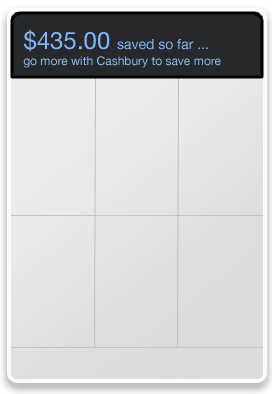
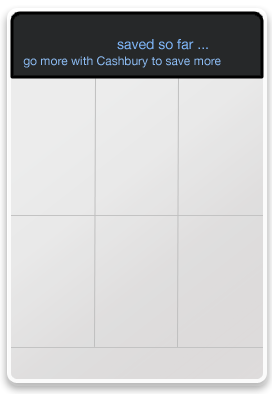
Added the total savings balance viewable on the control panel.

Changed region(s): [[0.0882, 0.0609, 0.4118, 0.1523]]

diff --git a/Classes/Controllers/KZCardsAtPlacesViewController.m b/Classes/Controllers/KZCardsAtPlacesViewController.m
@@ -15,10 +15,15 @@
 #import "KZEngagementHandler.h"
 #import "KZUserInfo.h"
 #import "FileSaver.h"
+#import "CBSavings.h"
+
+@interface KZCardsAtPlacesViewController (PrivateMethods)
+- (void) setBalanceLabelValue:(NSNumber *)theBalance;
+@end
 
 @implementation KZCardsAtPlacesViewController
 
-@synthesize cardContainer, frontCard, backCard, frontCardBackground, customerName, userID, profileImage;
+@synthesize cardContainer, frontCard, backCard, frontCardBackground, customerName, userID, profileImage, savingsBalance;
 
 //------------------------------------
 // Init & dealloc
@@ -35,6 +40,8 @@
     [customerName release];
     [userID release];
     [profileImage release];
+    
+    [savingsBalance release];
     
     [super dealloc];
 }
@@ -87,6 +94,12 @@
         self.profileImage.layer.borderWidth = 4.0;
         self.profileImage.layer.borderColor = [UIColor whiteColor].CGColor;
 	}
+    
+    // Fill in the control panel
+    
+    [[NSNotificationCenter defaultCenter] addObserver:self selector:@selector(didUpdateTotalBalance:) name:CBTotalSavingsUpdateNotification object:nil];
+    
+    [self setBalanceLabelValue:[[CBSavings sharedInstance] totalSavings]];
 }
 
 - (void) viewDidUnload
@@ -97,6 +110,9 @@
     self.customerName = nil;
     self.userID = nil;
     self.profileImage = nil;
+    self.savingsBalance = nil;
+    
+    [[NSNotificationCenter defaultCenter] removeObserver:self];
     
     [super viewDidUnload];
 }
@@ -106,6 +122,18 @@
 	[super viewWillAppear:animated];
     
     self.navigationController.navigationBarHidden = YES;
+}
+
+//------------------------------------
+// Private methods
+//------------------------------------
+#pragma mark - Private methods
+
+- (void) setBalanceLabelValue:(NSNumber *)theBalance
+{
+    float _balance = [theBalance floatValue];
+    
+    self.savingsBalance.text = [NSString stringWithFormat:@"$%1.2f", _balance];
 }
 
 //------------------------------------
@@ -192,6 +220,12 @@
     }
     
     [UIView commitAnimations];
+}
+
+- (void) didUpdateTotalBalance:(NSNotification *) theNotification
+{
+    NSNumber *_balanceNumber = (NSNumber *) [theNotification object];
+    [self setBalanceLabelValue:_balanceNumber];
 }
 
 //------------------------------------

diff --git a/Classes/Controllers/KZCardsAtPlacesViewController.h b/Classes/Controllers/KZCardsAtPlacesViewController.h
@@ -27,6 +27,8 @@
 @property (nonatomic, retain) IBOutlet UILabel *userID;
 @property (nonatomic, retain) IBOutlet UIImageView *profileImage;
 
+@property (nonatomic, retain) IBOutlet UILabel *savingsBalance;
+
 - (IBAction) showQRCode:(id)sender;
 - (IBAction) flipCard:(id)sender;
 - (IBAction) didTapPlaces:(id)sender;
